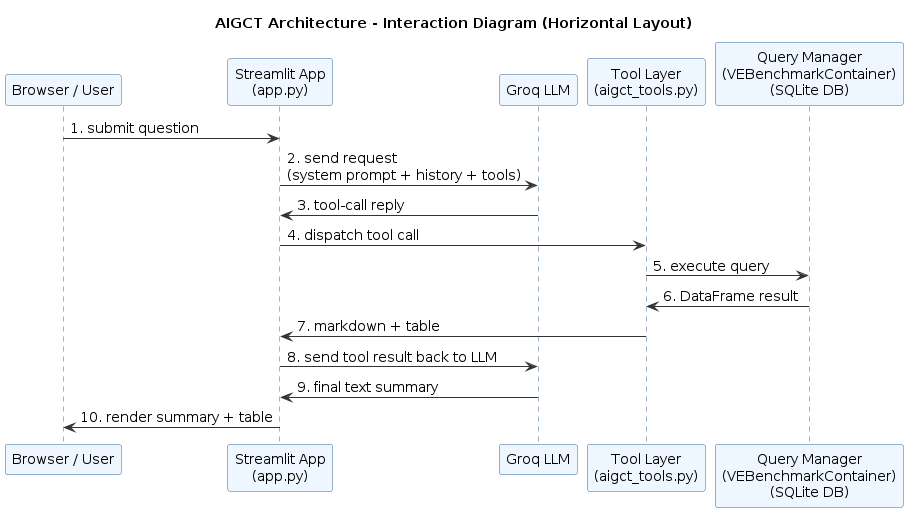
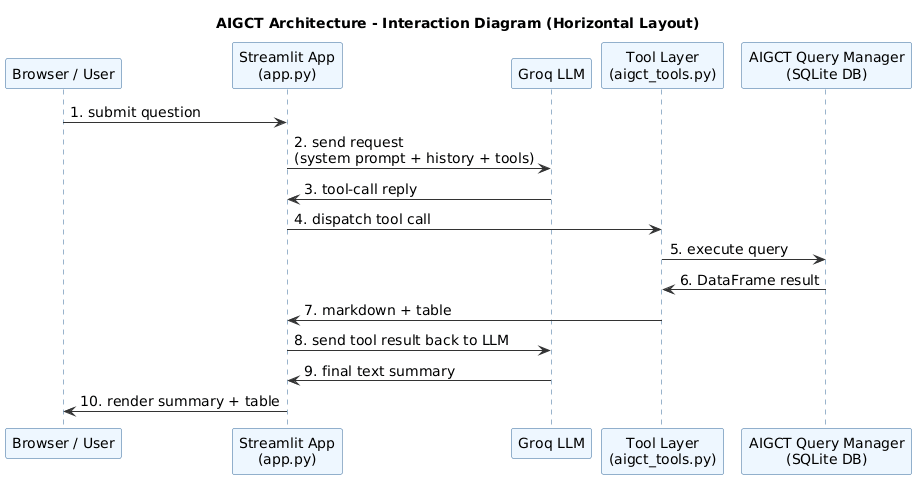
dev

diff --git a/aigct_tools.py b/aigct_tools.py
@@ -1,6 +1,6 @@
 """Tool layer over the aigct query_mgr.
 
-Two pure functions ((query_mgr, args) -> DataFrame) plus the Anthropic tool
+Two pure functions ((query_mgr, args) -> DataFrame) plus the Open AI / Groq function-calling
 schemas and a serializer for tool results. Written so they could be lifted into
 a standalone MCP server later with no change to the query logic.
 

diff --git a/README.md b/README.md
@@ -2,8 +2,12 @@
 
 A Streamlit chat app where you ask natural-language questions about the benchmark
 performance of **variant effect predictors (VEPs)**, and an LLM answers by
-calling the [`aigct`](https://github.com/Huang-lab/AiGCT) package's query methods
-and rendering a ranked results table.
+calling the AIGCT package's query methods and rendering a ranked results table.
+AIGCT is a platform for systematically evaluating ML/AI models of variant effects across the spectrum of genomics-based precision medicine. It consists of python based API and a database of variant effect data organized into categories based on the source of the data. AIGCT code and documentation can be found here:
+https://github.com/Huang-lab/AiGCT
+
+This app only supports querying summary data. To access the complete set of available data use the AIGCT
+platform directly.
 
 The LLM (served free via [Groq](https://groq.com)) doesn't know the numbers — it
 translates each question into a call to one of two `aigct` query methods, then
